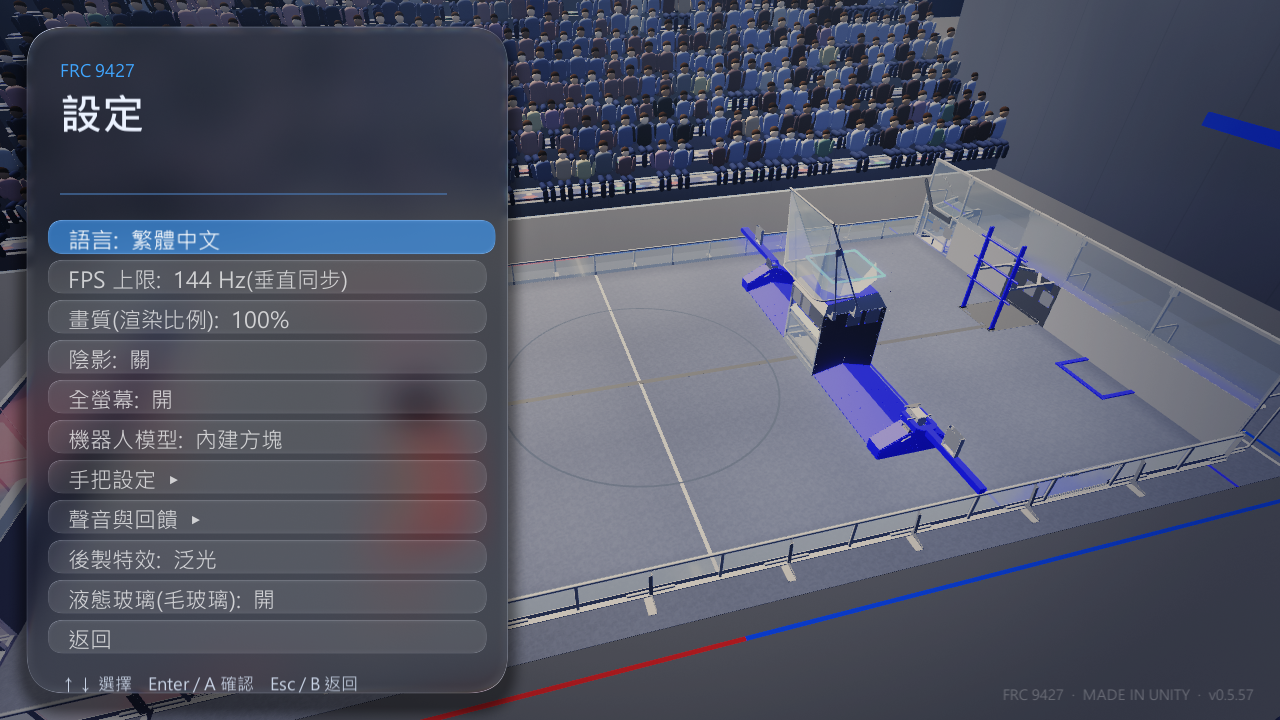
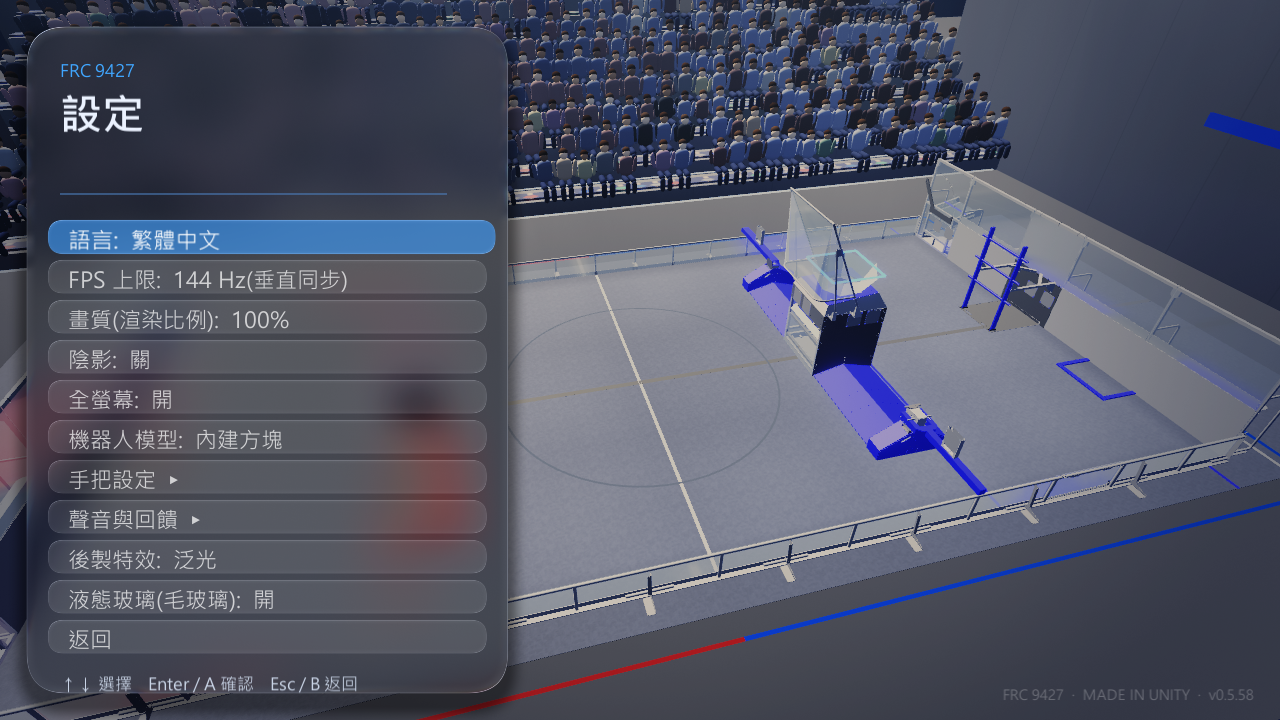
v0.5.58 best score

diff --git a/Assets/Scripts/Sim/SimHud.cs b/Assets/Scripts/Sim/SimHud.cs
@@ -35,7 +35,7 @@ namespace FrcSim
         void Start() { born = Time.unscaledTime; if (System.Array.IndexOf(System.Environment.GetCommandLineArgs(), "-f12test") >= 0) Invoke(nameof(TestShot), 8f); }
         void TestShot() { StartCoroutine(SaveShot()); }
 
-        float tutStart = -1f; bool tutDone, tutKey;
+        float tutStart = -1f; bool tutDone, tutKey; bool bestDone, bestNew; int bestPrev;
         string shotMsg = "", bannerPhase, bannerText = ""; float shotUntil, bannerUntil;
         System.Collections.IEnumerator SaveShot()
         {
@@ -295,6 +295,7 @@ namespace FrcSim
             if (Time.unscaledTime < shotUntil) { var sr = new Rect(cx - 220, H - 190, 440, 36); Panel(sr, 0.85f); GUI.Label(sr, shotMsg, Style(15, Color.white, TextAnchor.MiddleCenter, FontStyle.Bold)); }
             if (Time.unscaledTime < padLostUntil) { var tr = new Rect(cx - 250, H - 130, 500, 44); Panel(tr, 0.9f); GUI.Label(tr, L("⚠ 手把掉線了,已暫停。請重新插上 USB", "⚠ Controller lost - paused. Re-plug USB"), Style(18, new Color(1f, 0.8f, 0.3f), TextAnchor.MiddleCenter, FontStyle.Bold)); }
 
+            if (!(ScoreManager.ClockOn && ScoreManager.Ended)) bestDone = false;
             // ---- 比賽結束:成績卡(含各距離命中率) + 再來一場 / 回主選單(手把 A / B,Enter 再來一場)
             if (ScoreManager.ClockOn && ScoreManager.Ended)
             {
@@ -306,7 +307,8 @@ namespace FrcSim
                 int bs = ScoreManager.BlueScore, rs = ScoreManager.RedScore;
                 string res = bs > rs ? L("勝利", "VICTORY") : bs < rs ? L("落敗", "DEFEAT") : L("平手", "DRAW");
                 Color rc2 = bs > rs ? new Color(0.4f, 1f, 0.55f) : bs < rs ? new Color(1f, 0.5f, 0.45f) : new Color(1f, 0.9f, 0.4f);
-                GUI.Label(new Rect(cr.x, cr.y + 22, cw, 30), L("比賽結束", "MATCH OVER"), Style(18, dim, TextAnchor.UpperCenter, FontStyle.Bold));
+                if (!bestDone) { bestDone = true; string bk = "best_" + (GameSession.VsAi ? GameSession.AiLevel : -1); bestPrev = Prefs.GetInt(bk, 0); bestNew = bs > bestPrev; if (bestNew && !SuperSample.IsTestRun()) { Prefs.SetInt(bk, bs); PlayerPrefs.Save(); } }
+                GUI.Label(new Rect(cr.x, cr.y + 22, cw, 30), L("比賽結束", "MATCH OVER") + (bestNew ? "   ·   " + L("★ 新紀錄!", "★ NEW BEST!") : bestPrev > 0 ? "   ·   " + L("你的最佳 ", "Your best ") + bestPrev : ""), Style(18, bestNew ? new Color(1f, 0.85f, 0.3f) : dim, TextAnchor.UpperCenter, FontStyle.Bold));
                 GUI.Label(new Rect(cr.x, cr.y + 54, cw, 70), res, Style(54, rc2, TextAnchor.UpperCenter, FontStyle.Bold));
                 GUI.Label(new Rect(cr.x, cr.y + 132, cw, 50), $"{L("藍", "BLUE")} {bs}  :  {rs} {L("紅", "RED")}", Style(34, Color.white, TextAnchor.UpperCenter, FontStyle.Bold));
                 if (Mech != null) { int sh = ShotLog.DrillShots, hi = ShotLog.DrillHits; GUI.Label(new Rect(cr.x, cr.y + 182, cw, 28), $"{L("你發射", "Shots")} {sh}    {L("進球", "Scored")} {hi}    {L("命中率", "Accuracy")} {(sh > 0 ? hi * 100 / sh : 0)}%    {L("吸球", "Collected")} {Mech.TotalCollected}", Style(16, dim, TextAnchor.UpperCenter)); }
@@ -418,6 +420,8 @@ namespace FrcSim
         }
     }
 }
+
+
 
 
 

diff --git a/Assets/Scripts/Sim/UpdateCheck.cs b/Assets/Scripts/Sim/UpdateCheck.cs
@@ -17,7 +17,7 @@ namespace FrcSim
     //   找不到差異包(或失敗)時退回「開啟下載頁」,讓使用者手動下載完整版。
     public class UpdateCheck : MonoBehaviour
     {
-        public const string Current = "0.5.57";
+        public const string Current = "0.5.58";
         const string Repo = "frc9427liu-tech/FRC9427-SimApp";
         const string ReleasesApi = "https://api.github.com/repos/" + Repo + "/releases?per_page=30";
         public const string Page = "https://github.com/" + Repo + "/releases/latest";
@@ -235,6 +235,7 @@ Start-Process -FilePath $Exe -WorkingDirectory $Dst
 ";
     }
 }
+
 
 
 
